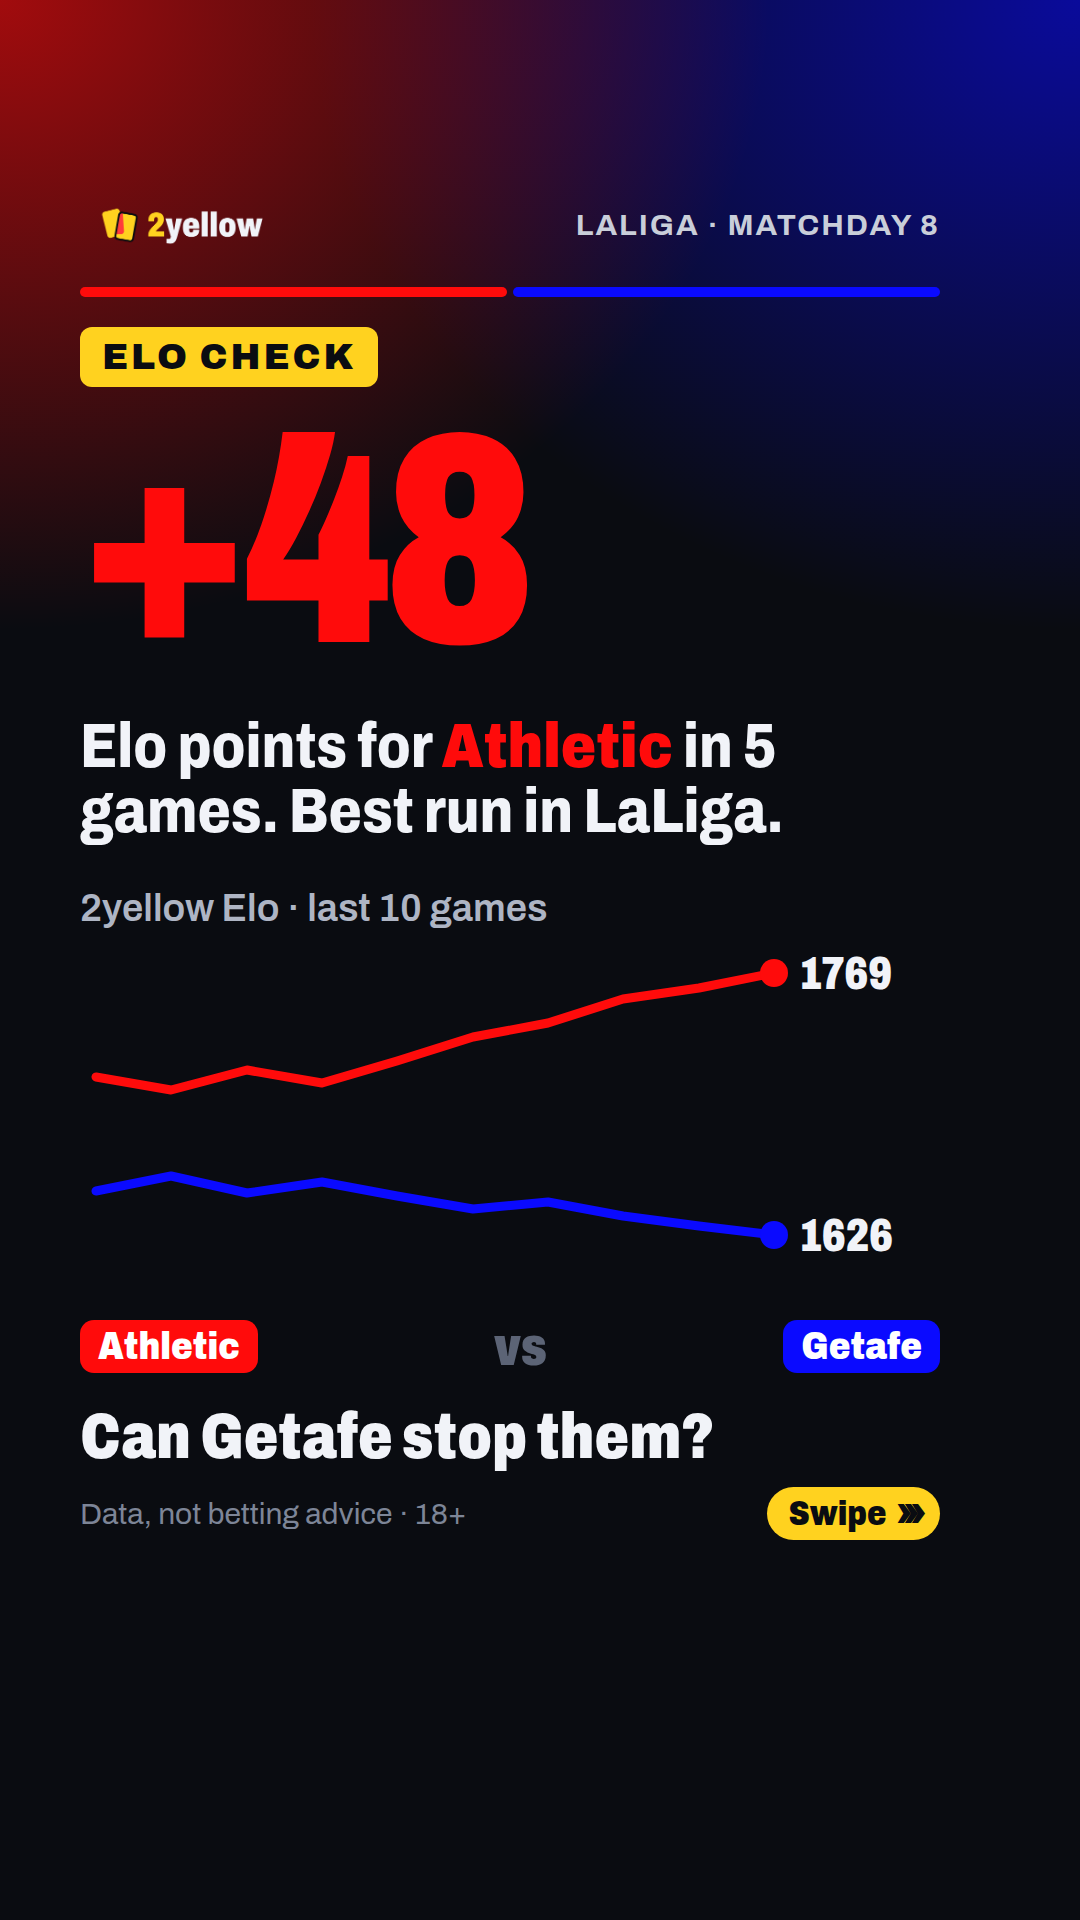
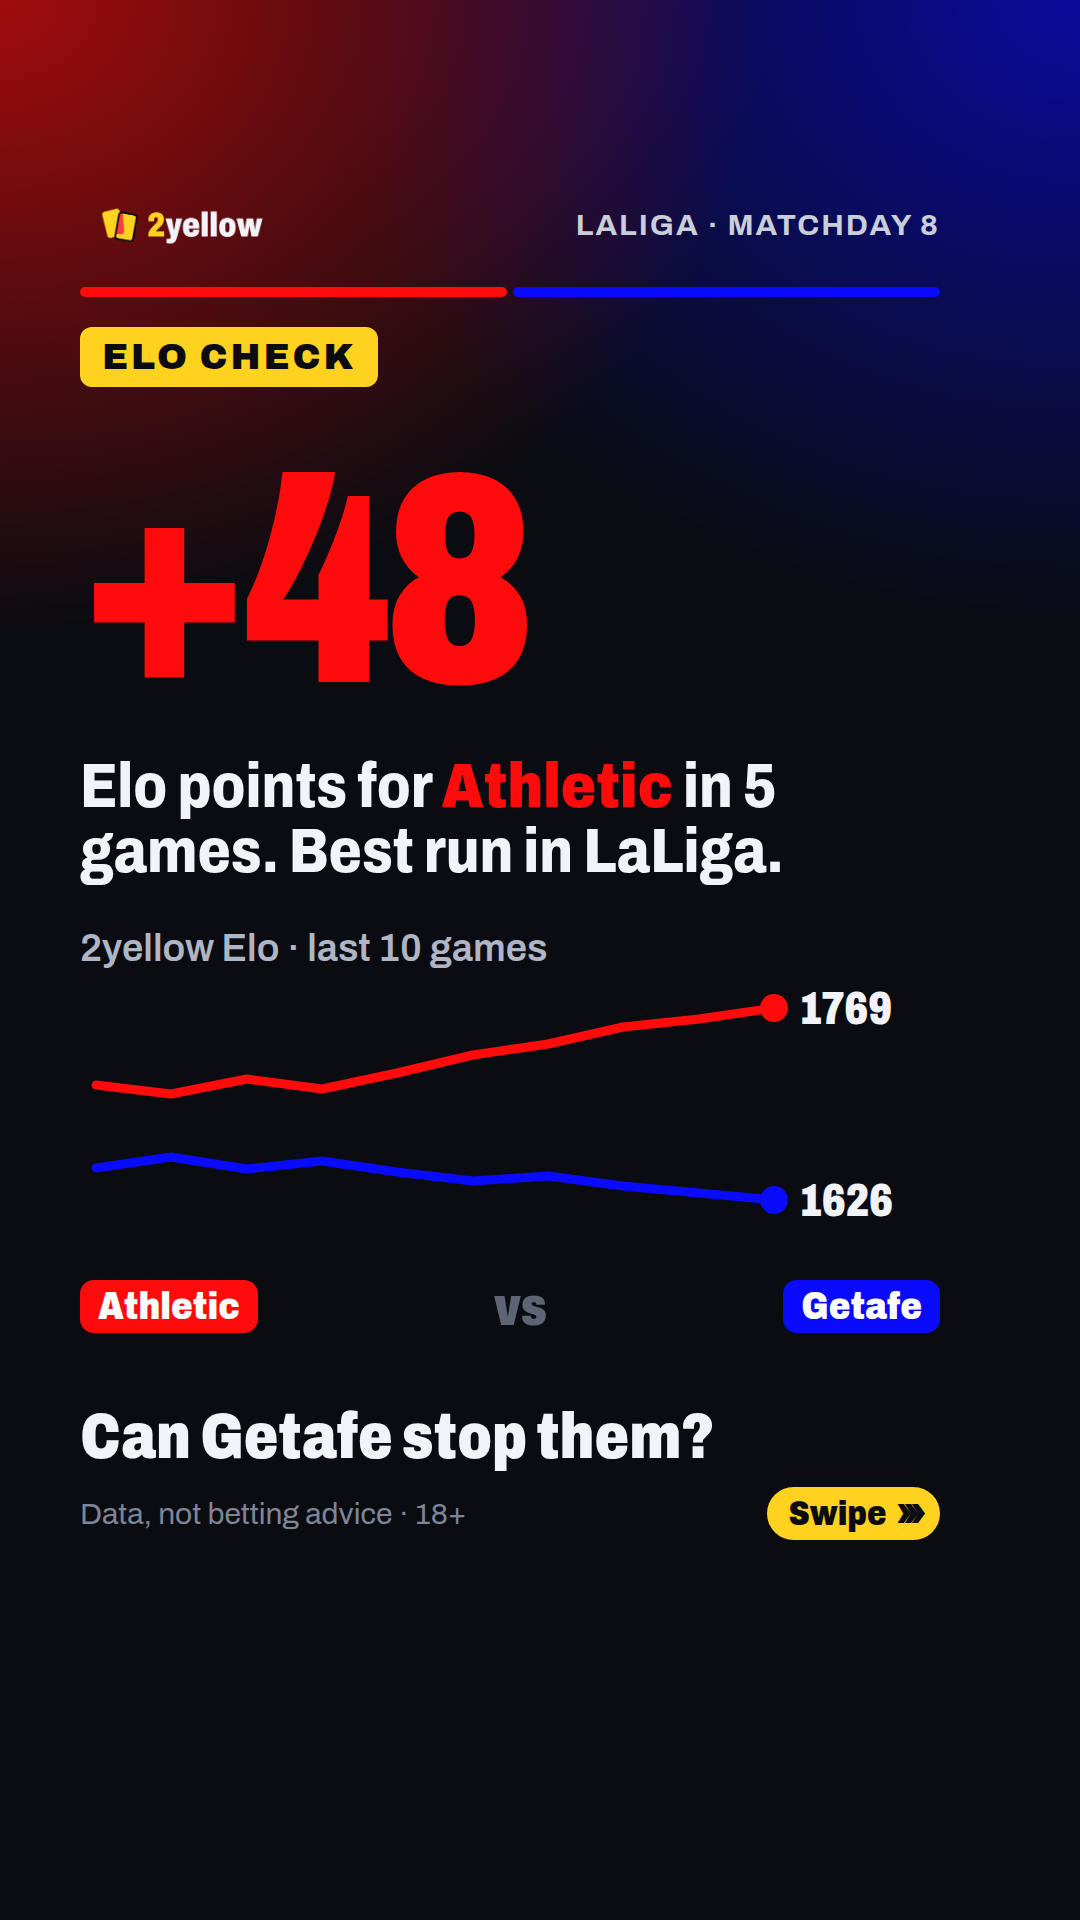
redes: previo Italy-Turkey y 6ª ligada a la lista del modelo
Claude-Session: https://claude.ai/code/session_018MeJsYiHkoQJUMr9duRCps

Changed region(s): [[0.0611, 0.2188, 0.7333, 0.5], [0.0917, 0.5, 0.8861, 0.7188], [0.0611, 0.6562, 0.2444, 0.7188]]

diff --git a/redes/plantillas/datos_selecciones.py b/redes/plantillas/datos_selecciones.py
@@ -92,6 +92,21 @@ def dia(fecha_partido):
         else f"{t:%A}’s"
 
 
+def teaser_lista(fecha, excluir=()):
+    """6ª: el pronóstico MÁS SEGURO de la lista del día (solo modelo) que no sea el del propio partido.
+    Lo que se tapa es justo lo que enseña la imagen del perfil."""
+    _, datos = lista_hoy(fecha)
+    cand = [m for m in datos["perfil_picks_hoy"]["picks"]
+            if m["home"]["name"] not in excluir and m["away"]["name"] not in excluir]
+    if not cand:
+        return None
+    t = cand[0]                                   # la lista ya va ordenada de mayor a menor %
+    hora = pd.Timestamp(f"{fecha} {t['time']}")
+    return {"template": "follow", "competition": COMP, "home": t["home"], "away": t["away"],
+            "kicker": "Next up · Tonight", "side": None, "hidden_pct": t["pct"],
+            "text": f"Our call + {len(datos['perfil_picks_hoy']['picks']) - 1} more on our profile."}
+
+
 def teaser(top):
     """Datos de la 6ª: el próximo partido grande y el % de nuestro favorito, que irá tapado."""
     pr = {"home": top.mod_1, "draw": top.mod_X, "away": top.mod_2}
@@ -218,9 +233,9 @@ def pre(equipo, fecha):
         lado = None if gl == gv else ("home" if (u.local if gl > gv else u.visitante) == m.local else "away")
         out["pre5_key_number"] = {**base, "template": "key_number", "team": lado, "number": f"{max(gl, gv)}–{min(gl, gv)}", "text": txt,
                                   "when": "Tonight · " + pd.Timestamp(x.fecha_partido).tz_convert("Europe/Madrid").strftime("%H:%M %Z"), "question": "Revenge or repeat?"}
-    n, top = siguiente(fecha, excluir=m.match_id)
-    if top is not None:
-        out["pre6_follow"] = teaser(top)
+    t6 = teaser_lista(fecha, excluir=(m.local, m.visitante))
+    if t6 is not None:
+        out["pre6_follow"] = t6
     return m, out
 
 

diff --git a/redes/plantillas/generar.py b/redes/plantillas/generar.py
@@ -199,7 +199,7 @@ def goals(d):
 def elo_chart(d):
     """Línea del Elo de los dos equipos en sus últimos partidos (SVG)."""
     h, a = d["home"], d["away"]
-    W, H, pad = 860, 330, 16
+    W, H, pad = 860, 250, 16
     todos = d["elo_home"] + d["elo_away"]
     lo, hi = min(todos) - 10, max(todos) + 10
     def linea(vs_, c):

diff --git a/BITACORA.md b/BITACORA.md
@@ -25,6 +25,7 @@ Dónde está cada cosa:
 
 | qué | por qué | ficheros |
 |---|---|---|
+| Previo de Italy-Turkey (05/10) con las 6 plantillas (`datos_selecciones.py pre Italy 2026-10-05`, solo modelo). La 6ª ya no usa un 1X2 suelto: tapa el pronóstico más seguro de la lista del día del modelo (`teaser_lista`, aquí Cyprus-Latvia 65 %), el mismo que sale en la imagen del perfil. Gráfica del Elo check más baja para que no choque con la pregunta. | Petición del usuario: otro previo, Italia-Turquía. | `redes/plantillas/` |
 | Plantillas 1-5 (previo y post): botón amarillo "Swipe ›››" abajo a la derecha, junto al pie 18+, dentro de la zona segura. No va en la 6ª ni en las del perfil (`SIN_SWIPE`). | Petición del usuario: que se vea que hay que deslizar a la siguiente. | `redes/plantillas/generar.py` |
 | `datos_selecciones.py hoy`: solo probabilidades de NUESTRO modelo (`mod_*`), nada del mercado; las cuotas solo filtran lo trivial (mediana >= 1.44, mejor >= 1.50). Córners fuera: Brier del modelo 0.27/0.25, igual o peor que decir 50 %. Lista del 05/10 rehecha y la 6ª tapa ahora el 62 % (menos de 3.5) de France-Belgium. | El usuario: la lista del otro chat era en realidad el mercado (pesos 0 en pesos_mezcla.json); en redes, solo nuestro modelo. | `redes/plantillas/` |
 | `datos_selecciones.py hoy <fecha>`: saca sola la lista del día como el chat de la Nations League (mezcla modelo/mercado de `pesos_mezcla.json`, solo mercados medidos sin tarjetas, cuota mediana >= 1.44 y mejor >= 1.50; lee registro y cuotas de origin/main). Con los datos del 05/10 reproduce 7 de 8 iguales; Rumanía-Suecia empata a 63 % entre menos de 9.5 córners y menos de 3.5 goles (en la imagen de hoy, la del otro chat). | El usuario no quiere rellenar nada; la lista sale de su otro chat con el mismo repo. | `redes/plantillas/datos_selecciones.py` |
